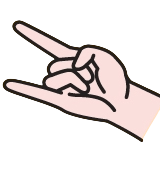
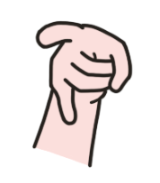
feat: 연습 화면에 모음 지문자 옆모습 사진 추가
손끝을 앞으로 내미는 ㅓ·ㅕ·ㅔ·ㅖ는 정면 사진만으로 손 방향을 알기 어려워
옆모습 보조 사진을 함께 띄운다.

- FingerspellingItem에 선택 항목 sideImage 추가
- ㅓ·ㅕ·ㅔ·ㅖ 옆모습 4장 추가, 정면 4장 교체
- 옆모습이 있으면 정면 그림을 줄이고 오른쪽 위에 나란히 배치
- testQuestionPool 반환 타입 명시로 타입 추론 경고 정리

diff --git a/frontend/src/features/learning/data/fingerspelling.ts b/frontend/src/features/learning/data/fingerspelling.ts
@@ -15,7 +15,9 @@ import tieutImage from "../assets/consonant/consonant-tieut.png";
 import aImage from "../assets/vowel/vowel-a.png";
 import aeImage from "../assets/vowel/vowel-ae.png";
 import eImage from "../assets/vowel/vowel-e.png";
+import eSideImage from "../assets/vowel/vowel-e-side.png";
 import eoImage from "../assets/vowel/vowel-eo.png";
+import eoSideImage from "../assets/vowel/vowel-eo-side.png";
 import euImage from "../assets/vowel/vowel-eu.png";
 import iImage from "../assets/vowel/vowel-i.png";
 import oImage from "../assets/vowel/vowel-o.png";
@@ -26,7 +28,9 @@ import wiImage from "../assets/vowel/vowel-wi.png";
 import yaImage from "../assets/vowel/vowel-ya.png";
 import yaeImage from "../assets/vowel/vowel-yae.png";
 import yeImage from "../assets/vowel/vowel-ye.png";
+import yeSideImage from "../assets/vowel/vowel-ye-side.png";
 import yeoImage from "../assets/vowel/vowel-yeo.png";
+import yeoSideImage from "../assets/vowel/vowel-yeo-side.png";
 import yoImage from "../assets/vowel/vowel-yo.png";
 import yuImage from "../assets/vowel/vowel-yu.png";
 import oneImage from "../assets/number/number-one.png";
@@ -51,6 +55,11 @@ export interface FingerspellingItem {
   name: string;
   /** 지문자 동작 사진(Vite 정적 import URL). */
   image: string;
+  /**
+   * 같은 동작을 옆에서 본 보조 사진. 손끝을 앞으로 내미는 ㅓ·ㅕ·ㅔ·ㅖ처럼
+   * 정면 그림만으로는 손의 방향을 알기 어려운 글자에만 있다.
+   */
+  sideImage?: string;
   /** 수형 설명 문장. */
   description: string[];
 }
@@ -250,6 +259,7 @@ export const fingerspellingItems: Record<
       symbol: "ㅓ",
       name: "어",
       image: eoImage,
+      sideImage: eoSideImage,
       description: [
         "주먹을 쥔 상태에서 엄지를 옆으로 곧게 펴주세요.",
         "손가락이 앞을 향하도록 합니다.",
@@ -259,6 +269,7 @@ export const fingerspellingItems: Record<
       symbol: "ㅕ",
       name: "여",
       image: yeoImage,
+      sideImage: yeoSideImage,
       description: [
         "주먹을 쥔 상태에서 엄지와 검지를 옆으로 펴주세요.",
         "손가락이 앞을 향하도록 합니다.",
@@ -343,6 +354,7 @@ export const fingerspellingItems: Record<
       symbol: "ㅔ",
       name: "에",
       image: eImage,
+      sideImage: eSideImage,
       description: [
         "검지와 새끼손가락을 펴고, 나머지 손가락은 접어주세요.",
         "손가락이 앞을 향하도록 합니다.",
@@ -352,6 +364,7 @@ export const fingerspellingItems: Record<
       symbol: "ㅖ",
       name: "예",
       image: yeImage,
+      sideImage: yeSideImage,
       description: [
         "엄지와 약지를 접고, 나머지 손가락은 펴주세요.",
         "손가락이 앞을 향하도록 합니다.",

diff --git a/frontend/src/features/learning/pages/PracticeSessionPage.tsx b/frontend/src/features/learning/pages/PracticeSessionPage.tsx
@@ -416,7 +416,15 @@ export function PracticeSessionPage({
                   {currentPracticeItem.symbol}
                 </span>
 
-                <div className="practice-answer-placeholder">
+                {/* 옆모습이 있는 글자는 정면 그림을 조금 줄여, 오른쪽 위에 붙는
+                    옆모습과 나란히 봐도 답답하지 않게 한다. */}
+                <div
+                  className={`practice-answer-placeholder ${
+                    currentPracticeItem.sideImage
+                      ? "practice-answer-placeholder-with-side"
+                      : ""
+                  }`}
+                >
                   {currentPracticeItem.image && (
                     <img
                       src={currentPracticeItem.image}
@@ -424,6 +432,15 @@ export function PracticeSessionPage({
                     />
                   )}
                 </div>
+
+                {currentPracticeItem.sideImage && (
+                  <div className="practice-answer-side">
+                    <img
+                      src={currentPracticeItem.sideImage}
+                      alt={`${currentPracticeItem.name} 지문자 동작 옆모습`}
+                    />
+                  </div>
+                )}
 
                 <div className="practice-item-navigation">
                   <strong>{currentPracticeItem.name}</strong>

diff --git a/frontend/src/features/learning/pages/PracticeSessionPage.css b/frontend/src/features/learning/pages/PracticeSessionPage.css
@@ -433,6 +433,36 @@
   object-fit: contain;
 }
 
+/* 옆모습을 함께 보여주는 글자(ㅓ·ㅕ·ㅔ·ㅖ)는 정면 그림을 조금 줄인다.
+   원은 그대로 두고 그림만 작아져, 오른쪽 위 옆모습과 함께 봐도 빽빽하지 않다. */
+.practice-answer-placeholder-with-side img {
+  width: 74%;
+  height: 74%;
+}
+
+/* 손끝이 앞을 향하는 글자는 정면 그림만으로 방향을 알기 어려워 옆모습을 덧붙인다.
+   왼쪽 위 글자 라벨과 마주 보는 자리에, 정면 그림보다 작은 흰 카드로 놓는다. */
+.practice-answer-side {
+  position: absolute;
+  top: min(1.458333vw, 2.333333vh);
+  right: min(1.458333vw, 2.333333vh);
+  z-index: 2;
+  width: min(5.729167vw, 9.166667vh);
+  height: min(5.729167vw, 9.166667vh);
+  display: grid;
+  place-items: center;
+  overflow: hidden;
+  border-radius: 50%;
+  background: #ffffff;
+  box-shadow: 0 min(0.416667vw, 0.666667vh) min(1.041667vw, 1.666667vh) rgba(63, 43, 32, 0.1);
+}
+
+.practice-answer-side img {
+  width: 82%;
+  height: 82%;
+  object-fit: contain;
+}
+
 /* 현재 문제 이름 */
 
 .practice-item-navigation {

diff --git a/frontend/src/features/learning/data/testSession.ts b/frontend/src/features/learning/data/testSession.ts
@@ -101,7 +101,7 @@ export function testQuestionPool(
 
   return testCategories
     .filter((category) => selected.has(category.id))
-    .flatMap((category) => {
+    .flatMap((category): TestQuestion[] => {
       if (category.id === "word") {
         return wordSigns.map((word) => ({
           symbol: word.name,
